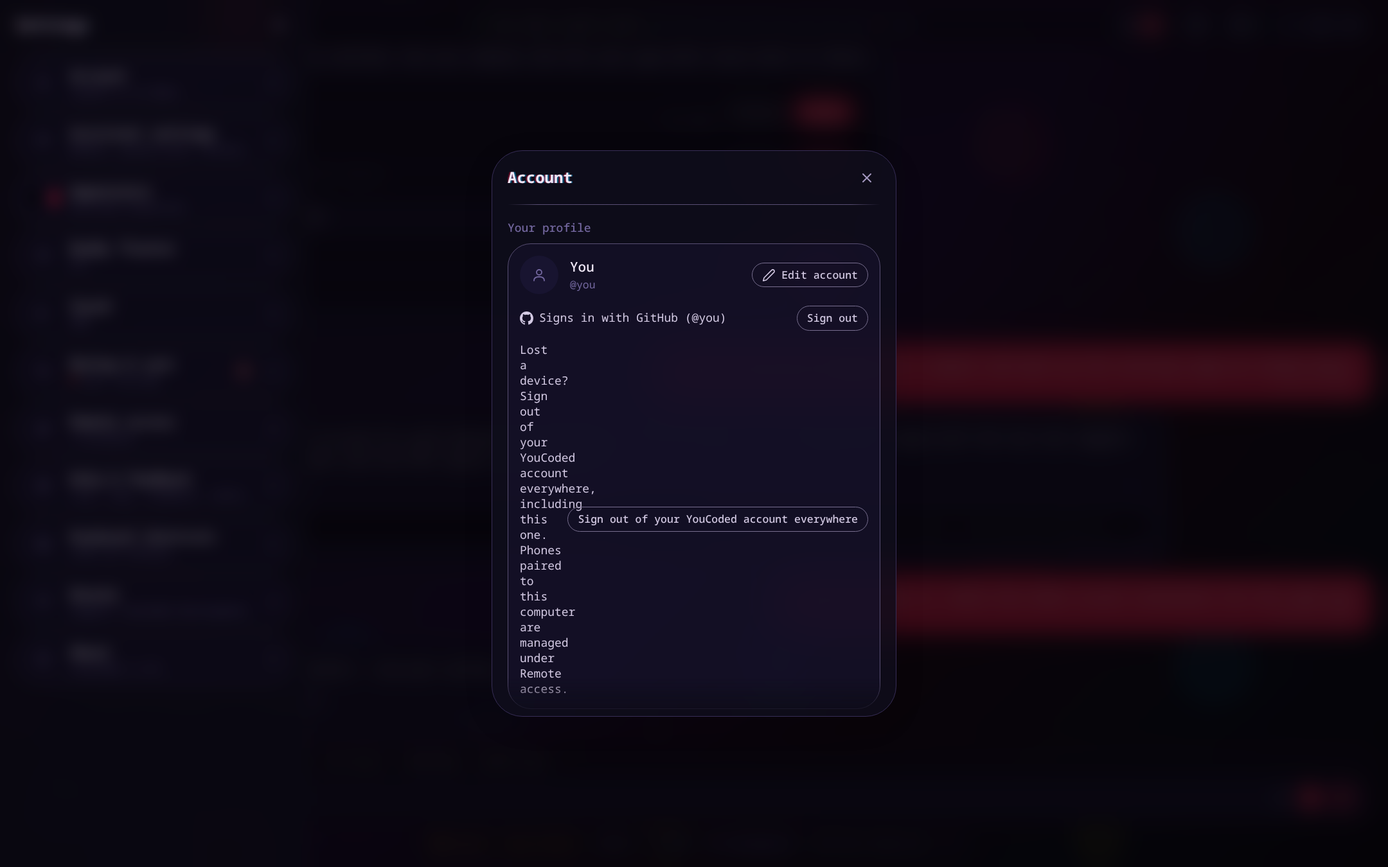
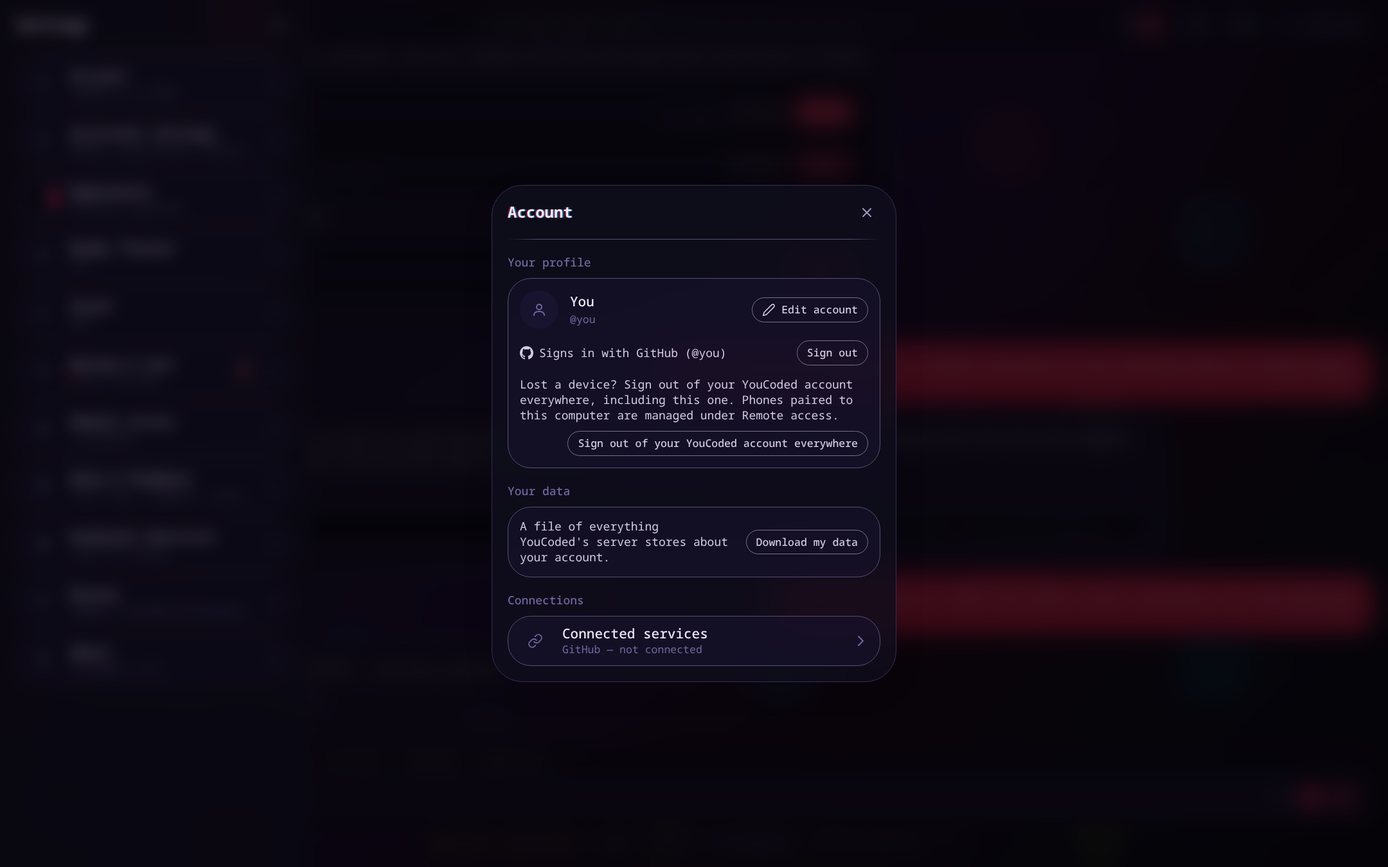
security review deck: account picture after the layout fix

Changed region(s): [[0.3722, 0.4044, 0.6204, 0.8089], [0.3412, 0.1867, 0.5273, 0.3733], [0.5583, 0.3111, 0.6204, 0.3733]]

diff --git a/docs/active/design/2026-11-01-security-changes-review/security-changes.review.html b/docs/active/design/2026-11-01-security-changes-review/security-changes.review.html
@@ -493,7 +493,7 @@ body[data-served="1"] .opendev{display:inline-flex}
 <textarea id="feedback" readonly></textarea>
 <div class="row"><button class="btn ghost" id="cancel">Keep reviewing</button><button class="btn" id="first">Go to first skipped</button><button class="btn" id="copy">Copy feedback</button><button class="btn primary" id="submit">Submit</button></div>
 </div></div>
-<script>const DECK={"title": "Security changes \u2014 what you will see", "key": "security-changes-review", "runs": ["before", "after"], "runLabels": {"before": "Before", "after": "After", "today": "Today"}, "themes": ["meadow-mist", "halftone-dimension"], "themeNames": {"meadow-mist": "Meadow", "halftone-dimension": "Halftone"}, "steps": [{"id": "G-1", "surface": "Chat \u00b7 permission card", "path": "When the assistant wants to upload a file with curl", "headline": "Uploading with curl no longer offers a broad \u201cAny curl command\u201d permission.", "changed": "The choice list is gone. Always allow now remembers only this exact command, and says so.", "measured": "", "notice": "You can no longer give one permission that covers every future curl upload. Each different upload asks again.", "risk": "More cards if the assistant sends files out often.", "images": {"meadow-mist": {"before": "images/security-changes.review/chat~grant-curl-upload--meadow-mist--before.png", "after": "images/security-changes.review/chat~grant-curl-upload--meadow-mist--after.png"}, "halftone-dimension": {"before": "images/security-changes.review/chat~grant-curl-upload--halftone-dimension--before.png", "after": "images/security-changes.review/chat~grant-curl-upload--halftone-dimension--after.png"}}, "boxes": {"meadow-mist": {"before": [0.69, 0.0, 98.61, 100.0], "after": [0.69, 0.0, 98.61, 100.0]}, "halftone-dimension": {"before": [0.0, 0.0, 100.0, 100.0], "after": [0.0, 0.0, 100.0, 100.0]}}}, {"id": "G-2", "surface": "Chat \u00b7 permission card", "path": "When the assistant wants to download with curl", "headline": "Downloading with curl still offers a broad choice, but it now covers downloads only.", "changed": "The wide choice is worded as downloading, and it no longer covers sending files out.", "measured": "", "notice": "Everyday downloads stop asking after one Always allow. Uploads and risky options still ask.", "risk": "Your old \u201cAny curl command\u201d permissions quietly cover less (see the Permissions page slide).", "images": {"meadow-mist": {"before": "images/security-changes.review/chat~grant-curl-download--meadow-mist--before.png", "after": "images/security-changes.review/chat~grant-curl-download--meadow-mist--after.png"}, "halftone-dimension": {"before": "images/security-changes.review/chat~grant-curl-download--halftone-dimension--before.png", "after": "images/security-changes.review/chat~grant-curl-download--halftone-dimension--after.png"}}, "boxes": {"meadow-mist": {"before": [0.69, 0.0, 98.61, 100.0], "after": [0.69, 0.0, 98.61, 100.0]}, "halftone-dimension": {"before": [0.0, 0.0, 100.0, 100.0], "after": [0.0, 0.0, 100.0, 100.0]}}}, {"id": "G-3", "surface": "Chat \u00b7 permission card", "path": "When the assistant wants to run npm install", "headline": "Plain package installs can be allowed broadly. Installs that run setup scripts ask each time.", "changed": "The broad choice is worded for plain installs only; the risky forms are kept out of it.", "measured": "", "notice": "Normal installs stop asking after one Always allow. Installs that run package scripts still ask.", "risk": "A project that needs setup scripts asks every time.", "images": {"meadow-mist": {"before": "images/security-changes.review/chat~grant-npm-install--meadow-mist--before.png", "after": "images/security-changes.review/chat~grant-npm-install--meadow-mist--after.png"}, "halftone-dimension": {"before": "images/security-changes.review/chat~grant-npm-install--halftone-dimension--before.png", "after": "images/security-changes.review/chat~grant-npm-install--halftone-dimension--after.png"}}, "boxes": {"meadow-mist": {"before": [0.69, 0.0, 98.61, 100.0], "after": [0.69, 0.0, 98.61, 100.0]}, "halftone-dimension": {"before": [0.0, 0.0, 100.0, 100.0], "after": [0.0, 0.0, 100.0, 100.0]}}}, {"id": "W-1", "surface": "Chat \u00b7 permission card", "path": "When the assistant wants to visit a website in Ask first mode", "headline": "A new website now asks first, naming the site and what each answer covers.", "changed": "The card used to say only \u201cOpening a webpage\u201d. It now asks \u201cVisit python.org?\u201d with a line saying what Yes and Always allow do.", "measured": "", "notice": "In Ask first, the first visit to each new site interrupts you once. Yes lasts for that chat; Always allow remembers it for that folder.", "risk": "Only chats with the built-in assistant ask. Claude Code chats and Auto edit or Full auto do not. A site it was already allowed to visit could redirect somewhere new without asking.", "images": {"meadow-mist": {"before": "images/security-changes.review/chat~web-visit--meadow-mist--before.png", "after": "images/security-changes.review/chat~web-visit--meadow-mist--after.png"}, "halftone-dimension": {"before": "images/security-changes.review/chat~web-visit--halftone-dimension--before.png", "after": "images/security-changes.review/chat~web-visit--halftone-dimension--after.png"}}, "boxes": {"meadow-mist": {"before": [0.69, 0.0, 98.61, 100.0], "after": [0.69, 0.0, 98.61, 100.0]}, "halftone-dimension": {"before": [0.69, 0.0, 98.61, 100.0], "after": [0.69, 0.0, 98.61, 100.0]}}}, {"id": "W-2", "surface": "Chat \u00b7 assistant browser", "path": "When the assistant tries to send a form on a website", "headline": "The assistant browser now asks before it sends a form, separately from clicking and typing.", "changed": "A new card: \u201cLet the assistant submit a form on library.example.org?\u201d with Don\u2019t allow, Always allow on the site, and Allow once.", "measured": "", "notice": "Typing into a site is allowed as before; sending what you typed asks first. Buying, sending and deleting still ask every time. A new \u201cSites where it can send forms\u201d list in Settings, Assistant, Browser (below the fold, not photographed) lets you remove sites.", "risk": "Only real web forms are caught. Many modern sites send without one, so some sends will not ask.", "images": {"meadow-mist": {"after": "images/security-changes.review/chat~browser-form--meadow-mist--after.png"}, "halftone-dimension": {"after": "images/security-changes.review/chat~browser-form--halftone-dimension--after.png"}}, "boxes": {"meadow-mist": {"after": [0.69, 0.0, 64.58, 100.0]}, "halftone-dimension": {"after": [0.0, 0.0, 66.11, 100.0]}}, "runs": ["after"], "labels": {"after": "Now"}, "yes": "Yes, keep it", "no": "No, remove it"}, {"id": "P-1", "surface": "Settings \u00b7 Permissions", "path": "Settings, Assistant, Permissions", "headline": "The Permissions page now mentions websites and look-only commands, and warns Full auto cannot catch everything.", "changed": "Ask first now reads: \u201cChecks with you before changing a file, running a command or visiting a new website. Reading and searching inside your project, and look-only commands, never interrupt you.\u201d Full auto\u2019s list now says the stops \u201ccan\u2019t catch everything\u201d. Older broad Always allow rows are marked as covering less.", "measured": "", "notice": "Commands like ls and git status now run with no question. Asking will not stop for them.", "risk": "Reading and searching inside your project run silently, including a project\u2019s own files. Side effect: ls, cat and grep on a folder you did not expect will not ask.", "images": {"meadow-mist": {"before": "images/security-changes.review/settings__assistant__permissions--meadow-mist--before.png", "after": "images/security-changes.review/settings__assistant__permissions--meadow-mist--after.png"}, "halftone-dimension": {"before": "images/security-changes.review/settings__assistant__permissions--halftone-dimension--before.png", "after": "images/security-changes.review/settings__assistant__permissions--halftone-dimension--after.png"}}, "boxes": {"meadow-mist": {"before": [34.58, 44.3, 43.06, 43.7], "after": [34.58, 44.3, 43.06, 43.7]}, "halftone-dimension": {"before": [34.58, 44.22, 43.06, 44.15], "after": [34.58, 44.22, 43.06, 44.15]}}}, {"id": "P-2", "surface": "Settings \u00b7 Permissions", "path": "Settings, Assistant, Permissions, \u201cLook-only commands\u201d", "headline": "A new closed section lists every look-only command that never asks.", "changed": "\u201cCommands that never ask\u201d opens to a plain list: ls, cat, grep, find, git status and more. It is for reading only; nothing can be turned on or off.", "measured": "", "notice": "You can see exactly what runs silently. The list grows only when the app is updated.", "risk": "The list includes cat, grep and git remote. They ask when they point at passwords, keys or files outside the project.", "images": {"meadow-mist": {"after": "images/security-changes.review/settings__assistant__permissions~never-ask-open--meadow-mist--after.png"}, "halftone-dimension": {"after": "images/security-changes.review/settings__assistant__permissions~never-ask-open--halftone-dimension--after.png"}}, "boxes": {"meadow-mist": {"after": [21.53, 11.11, 56.94, 77.78]}, "halftone-dimension": {"after": [21.53, 11.11, 56.94, 77.78]}}, "runs": ["after"], "labels": {"after": "Now"}, "yes": "Yes, keep it", "no": "No, remove it"}, {"id": "A-1", "surface": "Settings \u00b7 Account", "path": "Account", "headline": "Account gains a \u201cSign out of your YouCoded account everywhere\u201d button.", "changed": "A new line and button under Sign out: \u201cLost a device? Sign out of your YouCoded account everywhere, including this one. Phones paired to this computer are managed under Remote access.\u201d", "measured": "", "notice": "One press ends every sign-in of your YouCoded account, including this window. It does not unpair phones.", "risk": "In the picture the sentence squeezes into a narrow column beside a long button and looks cramped. Fails with a message if the server cannot be reached.", "images": {"meadow-mist": {"before": "images/security-changes.review/settings__account~signed-in--meadow-mist--before.png", "after": "images/security-changes.review/settings__account~signed-in--meadow-mist--after.png"}, "halftone-dimension": {"before": "images/security-changes.review/settings__account~signed-in--halftone-dimension--before.png", "after": "images/security-changes.review/settings__account~signed-in--halftone-dimension--after.png"}}, "boxes": {"meadow-mist": {"before": [35.09, 16.81, 29.81, 66.37], "after": [35.09, 16.81, 29.81, 66.37]}, "halftone-dimension": {"before": [35.09, 16.81, 29.81, 66.37], "after": [35.09, 16.81, 29.81, 66.37]}}}, {"id": "R-1", "surface": "Settings \u00b7 Remote access", "path": "Settings, Remote access", "headline": "Paired devices now show when they were last used, because unused ones sign out after 90 days.", "changed": "An offline device reads \u201cOffline \u00b7 Last used Oct 12\u201d. Devices unused for 90 days are signed out.", "measured": "", "notice": "A phone you stop using for three months must be paired again with the password. It then sees \u201csigned this phone out after 90 days without use\u201d.", "risk": "A phone left connected all the time could be signed out in rare restarts.", "images": {"meadow-mist": {"before": "images/security-changes.review/settings__remote~devices--meadow-mist--before.png", "after": "images/security-changes.review/settings__remote~devices--meadow-mist--after.png"}, "halftone-dimension": {"before": "images/security-changes.review/settings__remote~devices--halftone-dimension--before.png", "after": "images/security-changes.review/settings__remote~devices--halftone-dimension--after.png"}}, "boxes": {"meadow-mist": {"before": [41.06, 78.37, 6.76, 1.85], "after": [41.06, 78.37, 6.76, 1.85]}, "halftone-dimension": {"before": [42.36, 78.3, 8.66, 2.0], "after": [42.36, 78.3, 8.66, 2.0]}}}, {"id": "T-1", "surface": "Settings \u00b7 Report a bug", "path": "Settings, Development, Report a bug, then Review ticket", "headline": "SIGN-OFF: the ticket now says what is sent, where it appears, and who can read it.", "changed": "Three new lines: \u201cSent: the title and description above, plus everything under \u2018Sent with it\u2019.\u201d \u201cIt becomes a public ticket in the itsdestin/youcoded project on GitHub, posted from your GitHub account (if the app isn\u2019t connected to one, you finish in your browser).\u201d \u201cAnyone on the internet can read it. Closing it doesn\u2019t hide it, and GitHub keeps a visible history of any edits.\u201d Say Yes only if this wording is enough.", "measured": "", "notice": "Before sending you see, in plain words, that the ticket is public and permanent. This was your requirement to explain what is uploaded and where it is visible.", "risk": "More text above the Submit button.", "images": {"meadow-mist": {"before": "images/security-changes.review/settings__development__bug-report~review-logs--meadow-mist--before.png", "after": "images/security-changes.review/settings__development__bug-report~review-logs--meadow-mist--after.png"}, "halftone-dimension": {"before": "images/security-changes.review/settings__development__bug-report~review-logs--halftone-dimension--before.png", "after": "images/security-changes.review/settings__development__bug-report~review-logs--halftone-dimension--after.png"}}, "boxes": {"meadow-mist": {"before": [28.84, 19.26, 42.31, 61.48], "after": [28.84, 19.26, 42.31, 61.48]}, "halftone-dimension": {"before": [28.84, 16.52, 42.31, 66.96], "after": [28.84, 16.52, 42.31, 66.96]}}}, {"id": "T-2", "surface": "Settings \u00b7 Report a bug", "path": "Settings, Development, Report a bug", "headline": "The Recent logs switch now warns that logs are posted publicly and may hold private text.", "changed": "Now: \u201c\u2026posted publicly. Passwords and keys it recognizes are hidden, but it can miss some, so read them and remove anything private before sending.\u201d", "measured": "", "notice": "You are told to read the logs before sending, not told they are clean.", "risk": "", "images": {"meadow-mist": {"before": "images/security-changes.review/settings__development__bug-report--meadow-mist--before.png", "after": "images/security-changes.review/settings__development__bug-report--meadow-mist--after.png"}, "halftone-dimension": {"before": "images/security-changes.review/settings__development__bug-report--halftone-dimension--before.png", "after": "images/security-changes.review/settings__development__bug-report--halftone-dimension--after.png"}}, "boxes": {"meadow-mist": {"before": [31.81, 66.67, 31.62, 4.0], "after": [31.81, 66.67, 31.62, 4.0]}, "halftone-dimension": {"before": [28.84, 10.81, 42.31, 78.37], "after": [28.84, 10.81, 42.31, 78.37]}}}, {"id": "F-1", "surface": "Chat \u00b7 first-time warning", "path": "First time you pick Full auto", "headline": "The Full auto warning admits its safety stops are not complete.", "changed": "Added: \u201cThose stops catch the most dangerous commands, but they can\u2019t catch everything.\u201d", "measured": "", "notice": "A slightly longer warning the first time.", "risk": "", "images": {"meadow-mist": {"before": "images/security-changes.review/chat__first-time-warning__full-auto--meadow-mist--before.png", "after": "images/security-changes.review/chat__first-time-warning__full-auto--meadow-mist--after.png"}, "halftone-dimension": {"before": "images/security-changes.review/chat__first-time-warning__full-auto--halftone-dimension--before.png", "after": "images/security-changes.review/chat__first-time-warning__full-auto--halftone-dimension--after.png"}}, "boxes": {"meadow-mist": {"before": [35.09, 21.93, 29.81, 56.22], "after": [35.09, 21.93, 29.81, 56.22]}, "halftone-dimension": {"before": [35.09, 16.81, 29.81, 66.37], "after": [35.09, 16.81, 29.81, 66.37]}}}, {"id": "S-1", "surface": "Browser panel", "path": "Open the assistant browser on a computer that blocks its protection", "headline": "A notice appears when the browser\u2019s built-in protection is off.", "changed": "\u201cExtra browser protection is off\u201d with an explanation that this computer does not allow the browser\u2019s protection, and what setting turns it back on.", "measured": "", "notice": "Only on some Linux computers. Before, it was silent. Pages still load.", "risk": "Not shown when using your own Chrome.", "images": {"meadow-mist": {"after": "images/security-changes.review/chat~browser-sandbox--meadow-mist--after.png"}, "halftone-dimension": {"after": "images/security-changes.review/chat~browser-sandbox--halftone-dimension--after.png"}}, "boxes": {"meadow-mist": {"after": [0.69, 0.0, 64.58, 100.0]}, "halftone-dimension": {"after": [0.0, 0.0, 66.11, 100.0]}}, "runs": ["after"], "labels": {"after": "Now"}, "yes": "Yes, keep it", "no": "No, remove it"}, {"id": "M-1", "words": true, "surface": "Update and sync messages", "path": "Only shown when something goes wrong", "headline": "Two error messages changed or are new. Keep them?", "changed": "UPDATE: \u201cThe download was damaged, so it wasn't installed.\u201d is now \u201cThis update is older than a version you've already run on this computer, so it wasn't installed.\u201d when that is the real reason. SYNC (new): \u201cSync is paused because the GitHub repository \u201cNAME\u201d is public, so anyone could read what YouCoded syncs there. Make it private on GitHub (Settings, then Danger Zone), or delete it so YouCoded can create a private one, then try again.\u201d", "measured": "", "notice": "A re-posted older update is refused with no Try again button. Sync stops until a public backup repository is made private.", "risk": "", "yes": "", "no": ""}, {"id": "M-2", "words": true, "surface": "Sign-in and file messages", "path": "Only shown when something goes wrong", "headline": "Sign-in timeout and blocked-file messages changed. Keep them?", "changed": "SIGN-IN: \u201csign-in timed out \u2014 please try again\u201d is now \u201cSign-in didn't finish. Finish signing in with your web browser on this computer, then try again.\u201d (also \u201cYouCoded didn't hear back from your web browser. Finish signing in on this computer, then try again.\u201d). BLOCKED FILE: \u201c\u2026looks like a stored credential. This cannot be overridden.\u201d now adds \u201cIf you want help with it, paste the parts you need into the chat (without any passwords or tokens).\u201d NEW CARD TITLE: \u201cStopped before changing safety settings\u201d.", "measured": "", "notice": "Sign-in must be finished in a browser on the same computer. Files like .npmrc or .pem in your project can no longer be read by the assistant, with no way to allow one.", "risk": "", "yes": "", "no": ""}, {"id": "M-3", "words": true, "surface": "Phone and remote messages", "path": "Only shown when something goes wrong", "headline": "Phone messages are new. They could not be photographed. Keep them?", "changed": "TAILSCALE: \u201cYouCoded only connects to your computer over Tailscale, and this address isn\u2019t one. Turn on Tailscale on both devices and add the computer again using its Tailscale address.\u201d OLD COMPUTER: \u201cCannot reach host\u2026\u201d now ends \u201cIf YouCoded on your computer is not up to date, update it to connect.\u201d LOCKOUT: \u201cToo many wrong passwords. Wait a few minutes and try again.\u201d EXPIRED: \u201cThis device was signed out after 90 days without use. Enter the password to connect again.\u201d", "measured": "", "notice": "A phone saved with a home Wi-Fi address (not Tailscale) can no longer connect. A phone updated before its computer cannot connect either.", "risk": "Android could not be photographed here.", "yes": "", "no": ""}]};</script>
+<script>const DECK={"title": "Security changes \u2014 what you will see", "key": "security-changes-review", "runs": ["before", "after"], "runLabels": {"before": "Before", "after": "After", "today": "Today"}, "themes": ["meadow-mist", "halftone-dimension"], "themeNames": {"meadow-mist": "Meadow", "halftone-dimension": "Halftone"}, "steps": [{"id": "G-1", "surface": "Chat \u00b7 permission card", "path": "When the assistant wants to upload a file with curl", "headline": "Uploading with curl no longer offers a broad \u201cAny curl command\u201d permission.", "changed": "The choice list is gone. Always allow now remembers only this exact command, and says so.", "measured": "", "notice": "You can no longer give one permission that covers every future curl upload. Each different upload asks again.", "risk": "More cards if the assistant sends files out often.", "images": {"meadow-mist": {"before": "images/security-changes.review/chat~grant-curl-upload--meadow-mist--before.png", "after": "images/security-changes.review/chat~grant-curl-upload--meadow-mist--after.png"}, "halftone-dimension": {"before": "images/security-changes.review/chat~grant-curl-upload--halftone-dimension--before.png", "after": "images/security-changes.review/chat~grant-curl-upload--halftone-dimension--after.png"}}, "boxes": {"meadow-mist": {"before": [0.69, 0.0, 98.61, 100.0], "after": [0.69, 0.0, 98.61, 100.0]}, "halftone-dimension": {"before": [0.0, 0.0, 100.0, 100.0], "after": [0.0, 0.0, 100.0, 100.0]}}}, {"id": "G-2", "surface": "Chat \u00b7 permission card", "path": "When the assistant wants to download with curl", "headline": "Downloading with curl still offers a broad choice, but it now covers downloads only.", "changed": "The wide choice is worded as downloading, and it no longer covers sending files out.", "measured": "", "notice": "Everyday downloads stop asking after one Always allow. Uploads and risky options still ask.", "risk": "Your old \u201cAny curl command\u201d permissions quietly cover less (see the Permissions page slide).", "images": {"meadow-mist": {"before": "images/security-changes.review/chat~grant-curl-download--meadow-mist--before.png", "after": "images/security-changes.review/chat~grant-curl-download--meadow-mist--after.png"}, "halftone-dimension": {"before": "images/security-changes.review/chat~grant-curl-download--halftone-dimension--before.png", "after": "images/security-changes.review/chat~grant-curl-download--halftone-dimension--after.png"}}, "boxes": {"meadow-mist": {"before": [0.69, 0.0, 98.61, 100.0], "after": [0.69, 0.0, 98.61, 100.0]}, "halftone-dimension": {"before": [0.0, 0.0, 100.0, 100.0], "after": [0.0, 0.0, 100.0, 100.0]}}}, {"id": "G-3", "surface": "Chat \u00b7 permission card", "path": "When the assistant wants to run npm install", "headline": "Plain package installs can be allowed broadly. Installs that run setup scripts ask each time.", "changed": "The broad choice is worded for plain installs only; the risky forms are kept out of it.", "measured": "", "notice": "Normal installs stop asking after one Always allow. Installs that run package scripts still ask.", "risk": "A project that needs setup scripts asks every time.", "images": {"meadow-mist": {"before": "images/security-changes.review/chat~grant-npm-install--meadow-mist--before.png", "after": "images/security-changes.review/chat~grant-npm-install--meadow-mist--after.png"}, "halftone-dimension": {"before": "images/security-changes.review/chat~grant-npm-install--halftone-dimension--before.png", "after": "images/security-changes.review/chat~grant-npm-install--halftone-dimension--after.png"}}, "boxes": {"meadow-mist": {"before": [0.69, 0.0, 98.61, 100.0], "after": [0.69, 0.0, 98.61, 100.0]}, "halftone-dimension": {"before": [0.0, 0.0, 100.0, 100.0], "after": [0.0, 0.0, 100.0, 100.0]}}}, {"id": "W-1", "surface": "Chat \u00b7 permission card", "path": "When the assistant wants to visit a website in Ask first mode", "headline": "A new website now asks first, naming the site and what each answer covers.", "changed": "The card used to say only \u201cOpening a webpage\u201d. It now asks \u201cVisit python.org?\u201d with a line saying what Yes and Always allow do.", "measured": "", "notice": "In Ask first, the first visit to each new site interrupts you once. Yes lasts for that chat; Always allow remembers it for that folder.", "risk": "Only chats with the built-in assistant ask. Claude Code chats and Auto edit or Full auto do not. A site it was already allowed to visit could redirect somewhere new without asking.", "images": {"meadow-mist": {"before": "images/security-changes.review/chat~web-visit--meadow-mist--before.png", "after": "images/security-changes.review/chat~web-visit--meadow-mist--after.png"}, "halftone-dimension": {"before": "images/security-changes.review/chat~web-visit--halftone-dimension--before.png", "after": "images/security-changes.review/chat~web-visit--halftone-dimension--after.png"}}, "boxes": {"meadow-mist": {"before": [0.69, 0.0, 98.61, 100.0], "after": [0.69, 0.0, 98.61, 100.0]}, "halftone-dimension": {"before": [0.69, 0.0, 98.61, 100.0], "after": [0.69, 0.0, 98.61, 100.0]}}}, {"id": "W-2", "surface": "Chat \u00b7 assistant browser", "path": "When the assistant tries to send a form on a website", "headline": "The assistant browser now asks before it sends a form, separately from clicking and typing.", "changed": "A new card: \u201cLet the assistant submit a form on library.example.org?\u201d with Don\u2019t allow, Always allow on the site, and Allow once.", "measured": "", "notice": "Typing into a site is allowed as before; sending what you typed asks first. Buying, sending and deleting still ask every time. A new \u201cSites where it can send forms\u201d list in Settings, Assistant, Browser (below the fold, not photographed) lets you remove sites.", "risk": "Only real web forms are caught. Many modern sites send without one, so some sends will not ask.", "images": {"meadow-mist": {"after": "images/security-changes.review/chat~browser-form--meadow-mist--after.png"}, "halftone-dimension": {"after": "images/security-changes.review/chat~browser-form--halftone-dimension--after.png"}}, "boxes": {"meadow-mist": {"after": [0.69, 0.0, 64.58, 100.0]}, "halftone-dimension": {"after": [0.0, 0.0, 66.11, 100.0]}}, "runs": ["after"], "labels": {"after": "Now"}, "yes": "Yes, keep it", "no": "No, remove it"}, {"id": "P-1", "surface": "Settings \u00b7 Permissions", "path": "Settings, Assistant, Permissions", "headline": "The Permissions page now mentions websites and look-only commands, and warns Full auto cannot catch everything.", "changed": "Ask first now reads: \u201cChecks with you before changing a file, running a command or visiting a new website. Reading and searching inside your project, and look-only commands, never interrupt you.\u201d Full auto\u2019s list now says the stops \u201ccan\u2019t catch everything\u201d. Older broad Always allow rows are marked as covering less.", "measured": "", "notice": "Commands like ls and git status now run with no question. Asking will not stop for them.", "risk": "Reading and searching inside your project run silently, including a project\u2019s own files. Side effect: ls, cat and grep on a folder you did not expect will not ask.", "images": {"meadow-mist": {"before": "images/security-changes.review/settings__assistant__permissions--meadow-mist--before.png", "after": "images/security-changes.review/settings__assistant__permissions--meadow-mist--after.png"}, "halftone-dimension": {"before": "images/security-changes.review/settings__assistant__permissions--halftone-dimension--before.png", "after": "images/security-changes.review/settings__assistant__permissions--halftone-dimension--after.png"}}, "boxes": {"meadow-mist": {"before": [34.58, 44.3, 43.06, 43.7], "after": [34.58, 44.3, 43.06, 43.7]}, "halftone-dimension": {"before": [34.58, 44.22, 43.06, 44.15], "after": [34.58, 44.22, 43.06, 44.15]}}}, {"id": "P-2", "surface": "Settings \u00b7 Permissions", "path": "Settings, Assistant, Permissions, \u201cLook-only commands\u201d", "headline": "A new closed section lists every look-only command that never asks.", "changed": "\u201cCommands that never ask\u201d opens to a plain list: ls, cat, grep, find, git status and more. It is for reading only; nothing can be turned on or off.", "measured": "", "notice": "You can see exactly what runs silently. The list grows only when the app is updated.", "risk": "The list includes cat, grep and git remote. They ask when they point at passwords, keys or files outside the project.", "images": {"meadow-mist": {"after": "images/security-changes.review/settings__assistant__permissions~never-ask-open--meadow-mist--after.png"}, "halftone-dimension": {"after": "images/security-changes.review/settings__assistant__permissions~never-ask-open--halftone-dimension--after.png"}}, "boxes": {"meadow-mist": {"after": [21.53, 11.11, 56.94, 77.78]}, "halftone-dimension": {"after": [21.53, 11.11, 56.94, 77.78]}}, "runs": ["after"], "labels": {"after": "Now"}, "yes": "Yes, keep it", "no": "No, remove it"}, {"id": "A-1", "surface": "Settings \u00b7 Account", "path": "Account", "headline": "Account gains a \u201cSign out of your YouCoded account everywhere\u201d button.", "changed": "A new line and button under Sign out: \u201cLost a device? Sign out of your YouCoded account everywhere, including this one. Phones paired to this computer are managed under Remote access.\u201d", "measured": "", "notice": "One press ends every sign-in of your YouCoded account, including this window. It does not unpair phones.", "risk": "It also signs out this computer. If the server cannot be reached, nothing changes and a message says so.", "images": {"meadow-mist": {"before": "images/security-changes.review/settings__account~signed-in--meadow-mist--before.png", "after": "images/security-changes.review/settings__account~signed-in--meadow-mist--after.png"}, "halftone-dimension": {"before": "images/security-changes.review/settings__account~signed-in--halftone-dimension--before.png", "after": "images/security-changes.review/settings__account~signed-in--halftone-dimension--after.png"}}, "boxes": {"meadow-mist": {"before": [35.09, 21.7, 29.81, 56.59], "after": [35.09, 21.7, 29.81, 56.59]}, "halftone-dimension": {"before": [35.09, 20.81, 29.81, 58.37], "after": [35.09, 20.81, 29.81, 58.37]}}}, {"id": "R-1", "surface": "Settings \u00b7 Remote access", "path": "Settings, Remote access", "headline": "Paired devices now show when they were last used, because unused ones sign out after 90 days.", "changed": "An offline device reads \u201cOffline \u00b7 Last used Oct 12\u201d. Devices unused for 90 days are signed out.", "measured": "", "notice": "A phone you stop using for three months must be paired again with the password. It then sees \u201csigned this phone out after 90 days without use\u201d.", "risk": "A phone left connected all the time could be signed out in rare restarts.", "images": {"meadow-mist": {"before": "images/security-changes.review/settings__remote~devices--meadow-mist--before.png", "after": "images/security-changes.review/settings__remote~devices--meadow-mist--after.png"}, "halftone-dimension": {"before": "images/security-changes.review/settings__remote~devices--halftone-dimension--before.png", "after": "images/security-changes.review/settings__remote~devices--halftone-dimension--after.png"}}, "boxes": {"meadow-mist": {"before": [41.06, 78.37, 6.76, 1.85], "after": [41.06, 78.37, 6.76, 1.85]}, "halftone-dimension": {"before": [42.36, 78.3, 8.66, 2.0], "after": [42.36, 78.3, 8.66, 2.0]}}}, {"id": "T-1", "surface": "Settings \u00b7 Report a bug", "path": "Settings, Development, Report a bug, then Review ticket", "headline": "SIGN-OFF: the ticket now says what is sent, where it appears, and who can read it.", "changed": "Three new lines: \u201cSent: the title and description above, plus everything under \u2018Sent with it\u2019.\u201d \u201cIt becomes a public ticket in the itsdestin/youcoded project on GitHub, posted from your GitHub account (if the app isn\u2019t connected to one, you finish in your browser).\u201d \u201cAnyone on the internet can read it. Closing it doesn\u2019t hide it, and GitHub keeps a visible history of any edits.\u201d Say Yes only if this wording is enough.", "measured": "", "notice": "Before sending you see, in plain words, that the ticket is public and permanent. This was your requirement to explain what is uploaded and where it is visible.", "risk": "More text above the Submit button.", "images": {"meadow-mist": {"before": "images/security-changes.review/settings__development__bug-report~review-logs--meadow-mist--before.png", "after": "images/security-changes.review/settings__development__bug-report~review-logs--meadow-mist--after.png"}, "halftone-dimension": {"before": "images/security-changes.review/settings__development__bug-report~review-logs--halftone-dimension--before.png", "after": "images/security-changes.review/settings__development__bug-report~review-logs--halftone-dimension--after.png"}}, "boxes": {"meadow-mist": {"before": [28.84, 19.26, 42.31, 61.48], "after": [28.84, 19.26, 42.31, 61.48]}, "halftone-dimension": {"before": [28.84, 16.52, 42.31, 66.96], "after": [28.84, 16.52, 42.31, 66.96]}}}, {"id": "T-2", "surface": "Settings \u00b7 Report a bug", "path": "Settings, Development, Report a bug", "headline": "The Recent logs switch now warns that logs are posted publicly and may hold private text.", "changed": "Now: \u201c\u2026posted publicly. Passwords and keys it recognizes are hidden, but it can miss some, so read them and remove anything private before sending.\u201d", "measured": "", "notice": "You are told to read the logs before sending, not told they are clean.", "risk": "", "images": {"meadow-mist": {"before": "images/security-changes.review/settings__development__bug-report--meadow-mist--before.png", "after": "images/security-changes.review/settings__development__bug-report--meadow-mist--after.png"}, "halftone-dimension": {"before": "images/security-changes.review/settings__development__bug-report--halftone-dimension--before.png", "after": "images/security-changes.review/settings__development__bug-report--halftone-dimension--after.png"}}, "boxes": {"meadow-mist": {"before": [31.81, 66.67, 31.62, 4.0], "after": [31.81, 66.67, 31.62, 4.0]}, "halftone-dimension": {"before": [28.84, 10.81, 42.31, 78.37], "after": [28.84, 10.81, 42.31, 78.37]}}}, {"id": "F-1", "surface": "Chat \u00b7 first-time warning", "path": "First time you pick Full auto", "headline": "The Full auto warning admits its safety stops are not complete.", "changed": "Added: \u201cThose stops catch the most dangerous commands, but they can\u2019t catch everything.\u201d", "measured": "", "notice": "A slightly longer warning the first time.", "risk": "", "images": {"meadow-mist": {"before": "images/security-changes.review/chat__first-time-warning__full-auto--meadow-mist--before.png", "after": "images/security-changes.review/chat__first-time-warning__full-auto--meadow-mist--after.png"}, "halftone-dimension": {"before": "images/security-changes.review/chat__first-time-warning__full-auto--halftone-dimension--before.png", "after": "images/security-changes.review/chat__first-time-warning__full-auto--halftone-dimension--after.png"}}, "boxes": {"meadow-mist": {"before": [35.09, 21.93, 29.81, 56.22], "after": [35.09, 21.93, 29.81, 56.22]}, "halftone-dimension": {"before": [35.09, 16.81, 29.81, 66.37], "after": [35.09, 16.81, 29.81, 66.37]}}}, {"id": "S-1", "surface": "Browser panel", "path": "Open the assistant browser on a computer that blocks its protection", "headline": "A notice appears when the browser\u2019s built-in protection is off.", "changed": "\u201cExtra browser protection is off\u201d with an explanation that this computer does not allow the browser\u2019s protection, and what setting turns it back on.", "measured": "", "notice": "Only on some Linux computers. Before, it was silent. Pages still load.", "risk": "Not shown when using your own Chrome.", "images": {"meadow-mist": {"after": "images/security-changes.review/chat~browser-sandbox--meadow-mist--after.png"}, "halftone-dimension": {"after": "images/security-changes.review/chat~browser-sandbox--halftone-dimension--after.png"}}, "boxes": {"meadow-mist": {"after": [0.69, 0.0, 64.58, 100.0]}, "halftone-dimension": {"after": [0.0, 0.0, 66.11, 100.0]}}, "runs": ["after"], "labels": {"after": "Now"}, "yes": "Yes, keep it", "no": "No, remove it"}, {"id": "M-1", "words": true, "surface": "Update and sync messages", "path": "Only shown when something goes wrong", "headline": "Two error messages changed or are new. Keep them?", "changed": "UPDATE: \u201cThe download was damaged, so it wasn't installed.\u201d is now \u201cThis update is older than a version you've already run on this computer, so it wasn't installed.\u201d when that is the real reason. SYNC (new): \u201cSync is paused because the GitHub repository \u201cNAME\u201d is public, so anyone could read what YouCoded syncs there. Make it private on GitHub (Settings, then Danger Zone), or delete it so YouCoded can create a private one, then try again.\u201d", "measured": "", "notice": "A re-posted older update is refused with no Try again button. Sync stops until a public backup repository is made private.", "risk": "", "yes": "", "no": ""}, {"id": "M-2", "words": true, "surface": "Sign-in and file messages", "path": "Only shown when something goes wrong", "headline": "Sign-in timeout and blocked-file messages changed. Keep them?", "changed": "SIGN-IN: \u201csign-in timed out \u2014 please try again\u201d is now \u201cSign-in didn't finish. Finish signing in with your web browser on this computer, then try again.\u201d (also \u201cYouCoded didn't hear back from your web browser. Finish signing in on this computer, then try again.\u201d). BLOCKED FILE: \u201c\u2026looks like a stored credential. This cannot be overridden.\u201d now adds \u201cIf you want help with it, paste the parts you need into the chat (without any passwords or tokens).\u201d NEW CARD TITLE: \u201cStopped before changing safety settings\u201d.", "measured": "", "notice": "Sign-in must be finished in a browser on the same computer. Files like .npmrc or .pem in your project can no longer be read by the assistant, with no way to allow one.", "risk": "", "yes": "", "no": ""}, {"id": "M-3", "words": true, "surface": "Phone and remote messages", "path": "Only shown when something goes wrong", "headline": "Phone messages are new. They could not be photographed. Keep them?", "changed": "TAILSCALE: \u201cYouCoded only connects to your computer over Tailscale, and this address isn\u2019t one. Turn on Tailscale on both devices and add the computer again using its Tailscale address.\u201d OLD COMPUTER: \u201cCannot reach host\u2026\u201d now ends \u201cIf YouCoded on your computer is not up to date, update it to connect.\u201d LOCKOUT: \u201cToo many wrong passwords. Wait a few minutes and try again.\u201d EXPIRED: \u201cThis device was signed out after 90 days without use. Enter the password to connect again.\u201d", "measured": "", "notice": "A phone saved with a home Wi-Fi address (not Tailscale) can no longer connect. A phone updated before its computer cannot connect either.", "risk": "Android could not be photographed here.", "yes": "", "no": ""}]};</script>
 <script>/* Review deck v2 — renders DECK (one JSON object the builder inlines) one step at a time.
    Persistence: the serve.py endpoints when the page is served (GET/POST /answers, POST /submit),
    localStorage + a copy box when it is opened as a plain file. */
